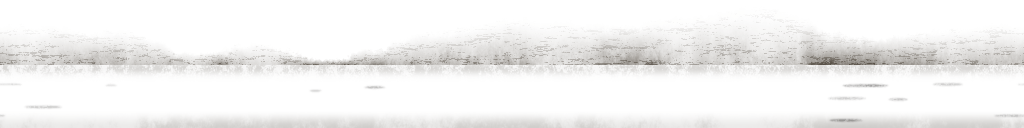
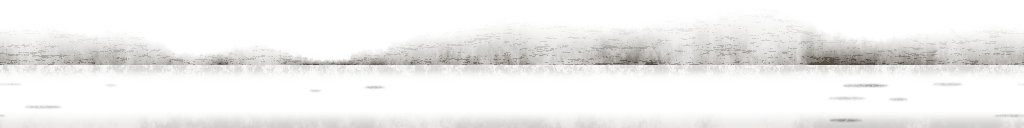
Passe triple A, vague 1 (en cours) : usure — décalques de crasse régénérés, réglages
Sauvegarde intermédiaire du lot V1-USURE pendant son travail.

Claude-Session: https://claude.ai/code/session_01Ku7s9dPW2dJ86ZjCwybWBe

diff --git a/godot/tools/make_wear.py b/godot/tools/make_wear.py
@@ -665,7 +665,7 @@ def crasse_pied_mur(v, W=1024, H=128):
     g = np.clip((y - front) / (PL - front), 0.0, 1.0)
     # plus ou moins sale le long du mur (meubles déplacés, passages), sans couture (périodique)
     along = 0.55 + 0.45 * sstep(-1.2, 1.0, spectral(1, W, 2.4, seed + 7, kmin=2.0 / W)[0][None, :])
-    wall = 0.62 * g ** 1.5 * along * (0.72 + 0.28 * np.tanh(n2)) * (0.9 + 0.1 * np.tanh(n3)) * (y < PL + 0.01)
+    wall = 0.82 * g ** 1.4 * along * (0.72 + 0.28 * np.tanh(n2)) * (0.9 + 0.1 * np.tanh(n3)) * (y < PL + 0.01)
     # traînées verticales légères (eau de lavage qui a coulé, bas de serpillière)
     drips = sstep(0.6, 1.6, spectral(H, W, 1.6, seed + 6, kmin=6.0 / W, ax=1.0, ay=0.12)) * g * 0.25
     wall = np.clip(wall + drips * (y < PL + 0.01), 0.0, 0.85)
@@ -708,7 +708,7 @@ def coin(v, S=512):
     specks = sstep(2.0, 2.9, spectral(S, S, 0.6, seed + 2, kmin=30.0 / S))
     fib = sstep(1.2, 2.2, spectral(S, S, 1.4, seed + 5, kmin=12.0 / S, ax=1.0, ay=0.25))   # filaments (toiles)
     body = (1.0 - sstep(0.0, 0.5, r * (1.0 + 0.25 * n))) ** 1.6
-    a = 0.72 * body * (0.72 + 0.28 * np.tanh(spectral(S, S, 1.8, seed + 3, kmin=6.0 / S)))
+    a = 0.8 * body * (0.72 + 0.28 * np.tanh(spectral(S, S, 1.8, seed + 3, kmin=6.0 / S)))
     a = np.clip(a + specks * body * 0.7 + fib * body * 0.25, 0, 0.92)
     a *= edge_fade(S, S, 0.03, seed + 4)
     rgb = np.zeros((S, S, 3))
